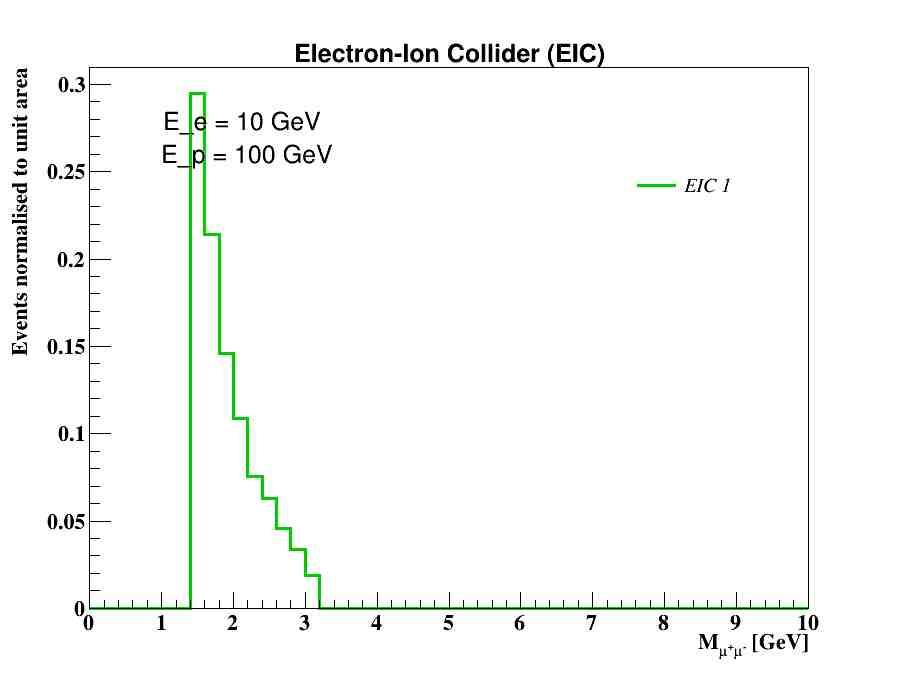
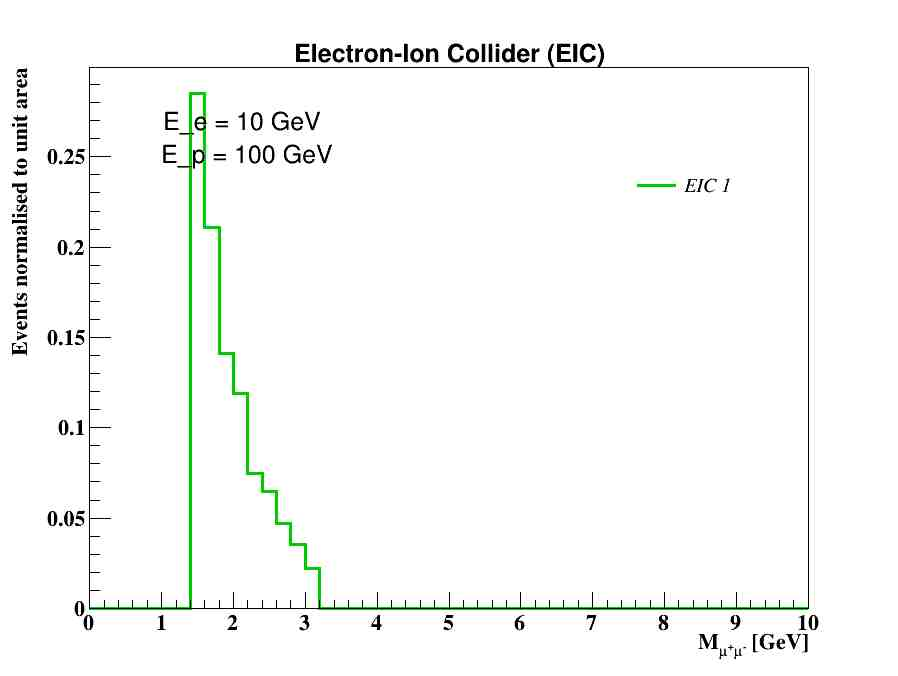
Protonout_Theta

diff --git a/epic_out_file_v2.C b/epic_out_file_v2.C
@@ -83,6 +83,7 @@
    Float_t Ptll = 0.0;
    Float_t tvalue = 0.0;
    
+  
 
 void epic_out_file_v2::Loop()
 {
@@ -169,8 +170,9 @@ void epic_out_file_v2::Loop()
   Electronout.SetPxPyPzE( particles_momentum_m_v1[1], particles_momentum_m_v2[1], particles_momentum_m_v3[1], particles_momentum_m_v4[1] );
   
 //        cout << "Electronout Px = "   <<  Electronout.Px()  << endl;    
-          cout << "Electronout E = "   <<  Electronout.Theta()  << endl;    
-          
+//        cout << "Electronout E = "   <<  Electronout.E()  << endl;    
+//        cout << "Electronout Theta = "   <<  Electronout.Theta()  << endl;    
+  
 //        }  
   
   
@@ -179,13 +181,22 @@ void epic_out_file_v2::Loop()
 
  Float_t Energy_Ratio = Electronout_E*1.0/Electronin_E*1.0;
 
-//        cout << "Energy_Ratio = "   <<  Energy_Ratio  << endl;    
- 
 if ( Energy_Ratio < 0.5 ||  Energy_Ratio > 0.9 ) { continue; }
 
-    
+//        cout << "Energy_Ratio = "   <<  Energy_Ratio  << endl;    
+
+
+ Float_t Pi = 3.14159265359;
+ Float_t Pi_Theta_e = Pi - Electronout.Theta();
+
+
+       
+if ( Pi_Theta_e > 10.0/1000.0 ) { continue; }  // 10 mrad
+
+//       cout << "Pi_Theta_e = "   <<  Pi_Theta_e  << endl; 
         
-        
+
+ 
 //        if ( kMaxparticles == 3 ) {  // particles_pid[i] == 2212 && particles_status[i] == 0
 
 
@@ -205,7 +216,26 @@ if ( Energy_Ratio < 0.5 ||  Energy_Ratio > 0.9 ) { continue; }
 //        }  
     
 
+ Float_t xL = Protonout.Pz() / Protonout.P();
+  
+//       cout << "xL = "   <<  xL  << endl; 
 
+ Float_t Protonout_Pt = Protonout.Pt();  
+    
+ if ( Protonout_Pt < 0.10 ) { continue; }    // 100 MeV
+
+//        cout << "Protonout_Pt = "   <<  Protonout_Pt  << endl; 
+       
+ Float_t Protonout_Theta = Protonout.Theta();       
+
+       
+ if ( Protonout_Theta > 13.0/1000.0 ) { continue; }  // 13 mrad 
+ 
+       cout << "Protonout_Theta = "   <<  Protonout_Theta  << endl; 
+       
+
+
+    
 // ++++++++++++++++++++++++++++++++++++++++++++++++++++++++++++++++++++++++++              
 
       
